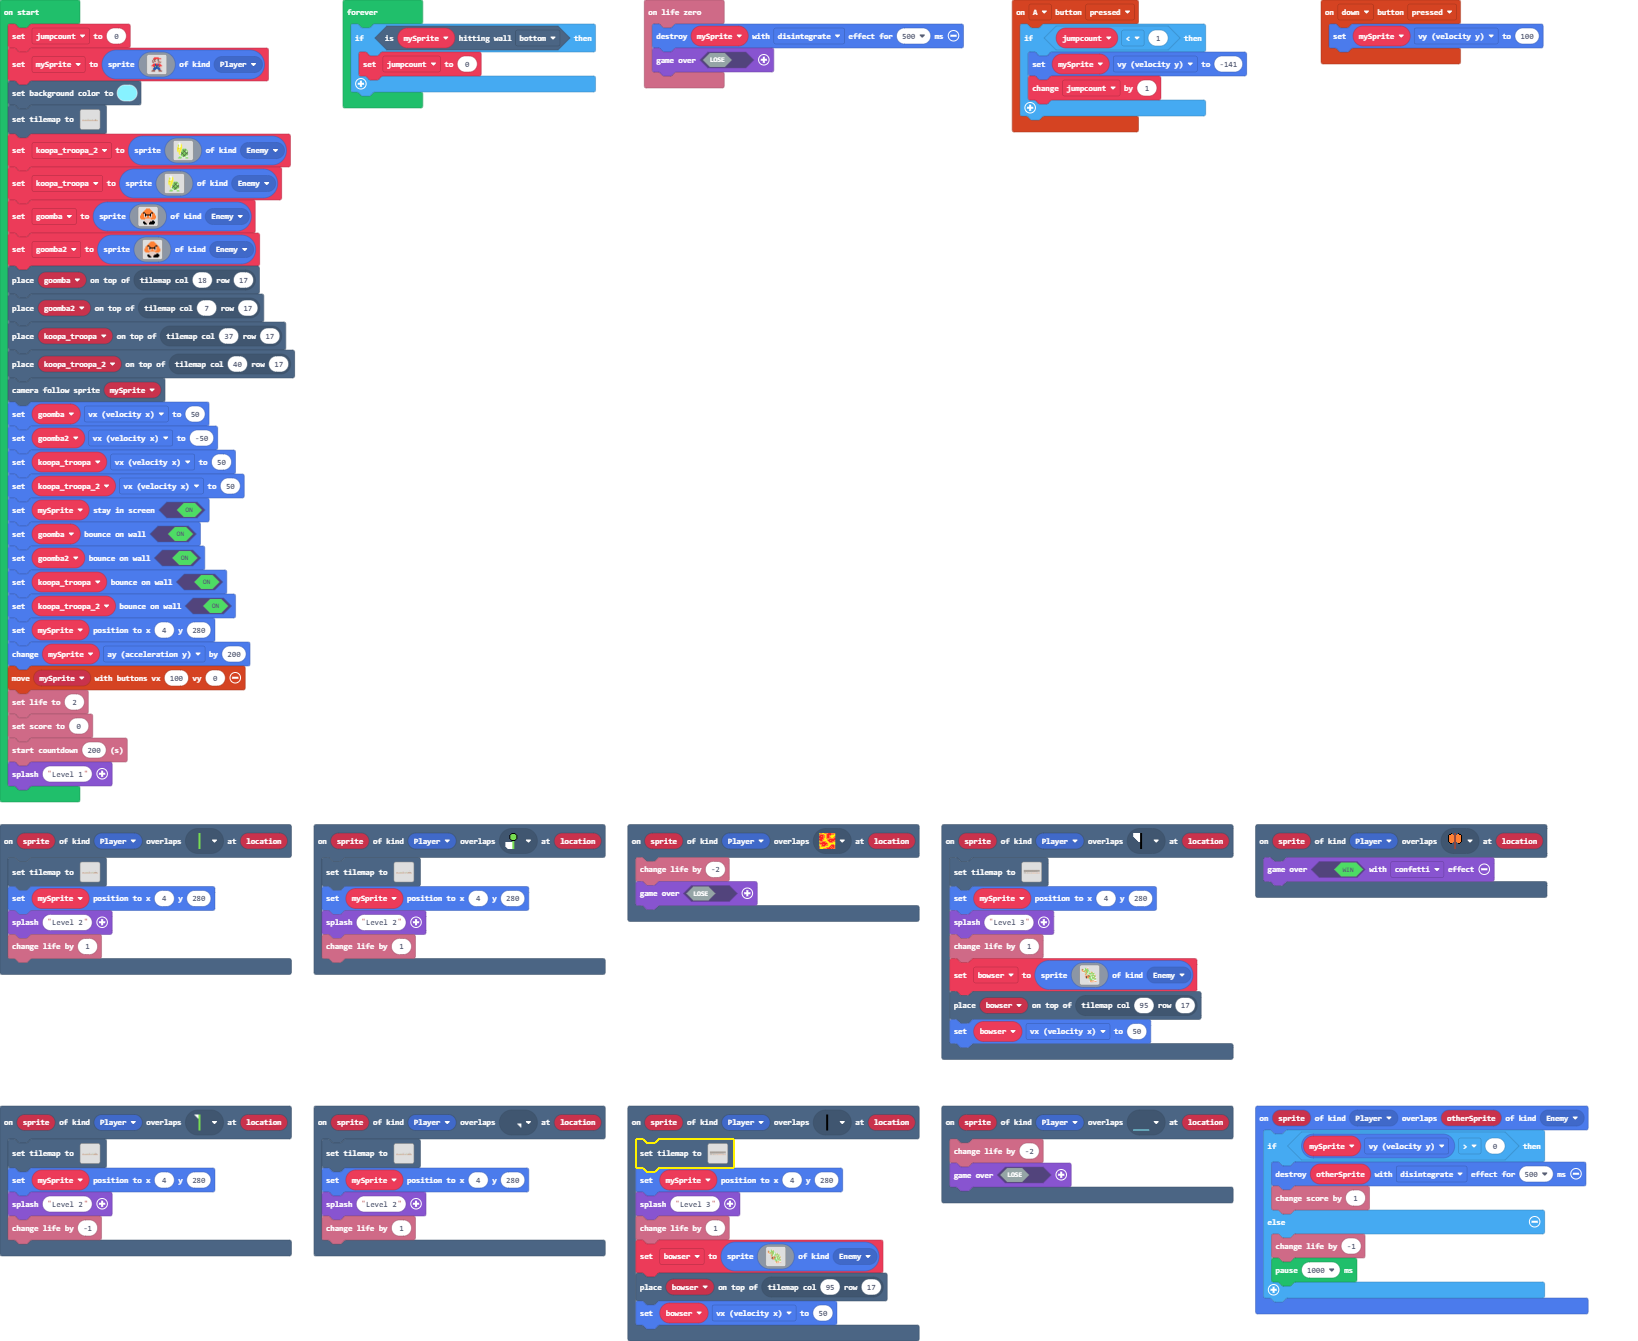
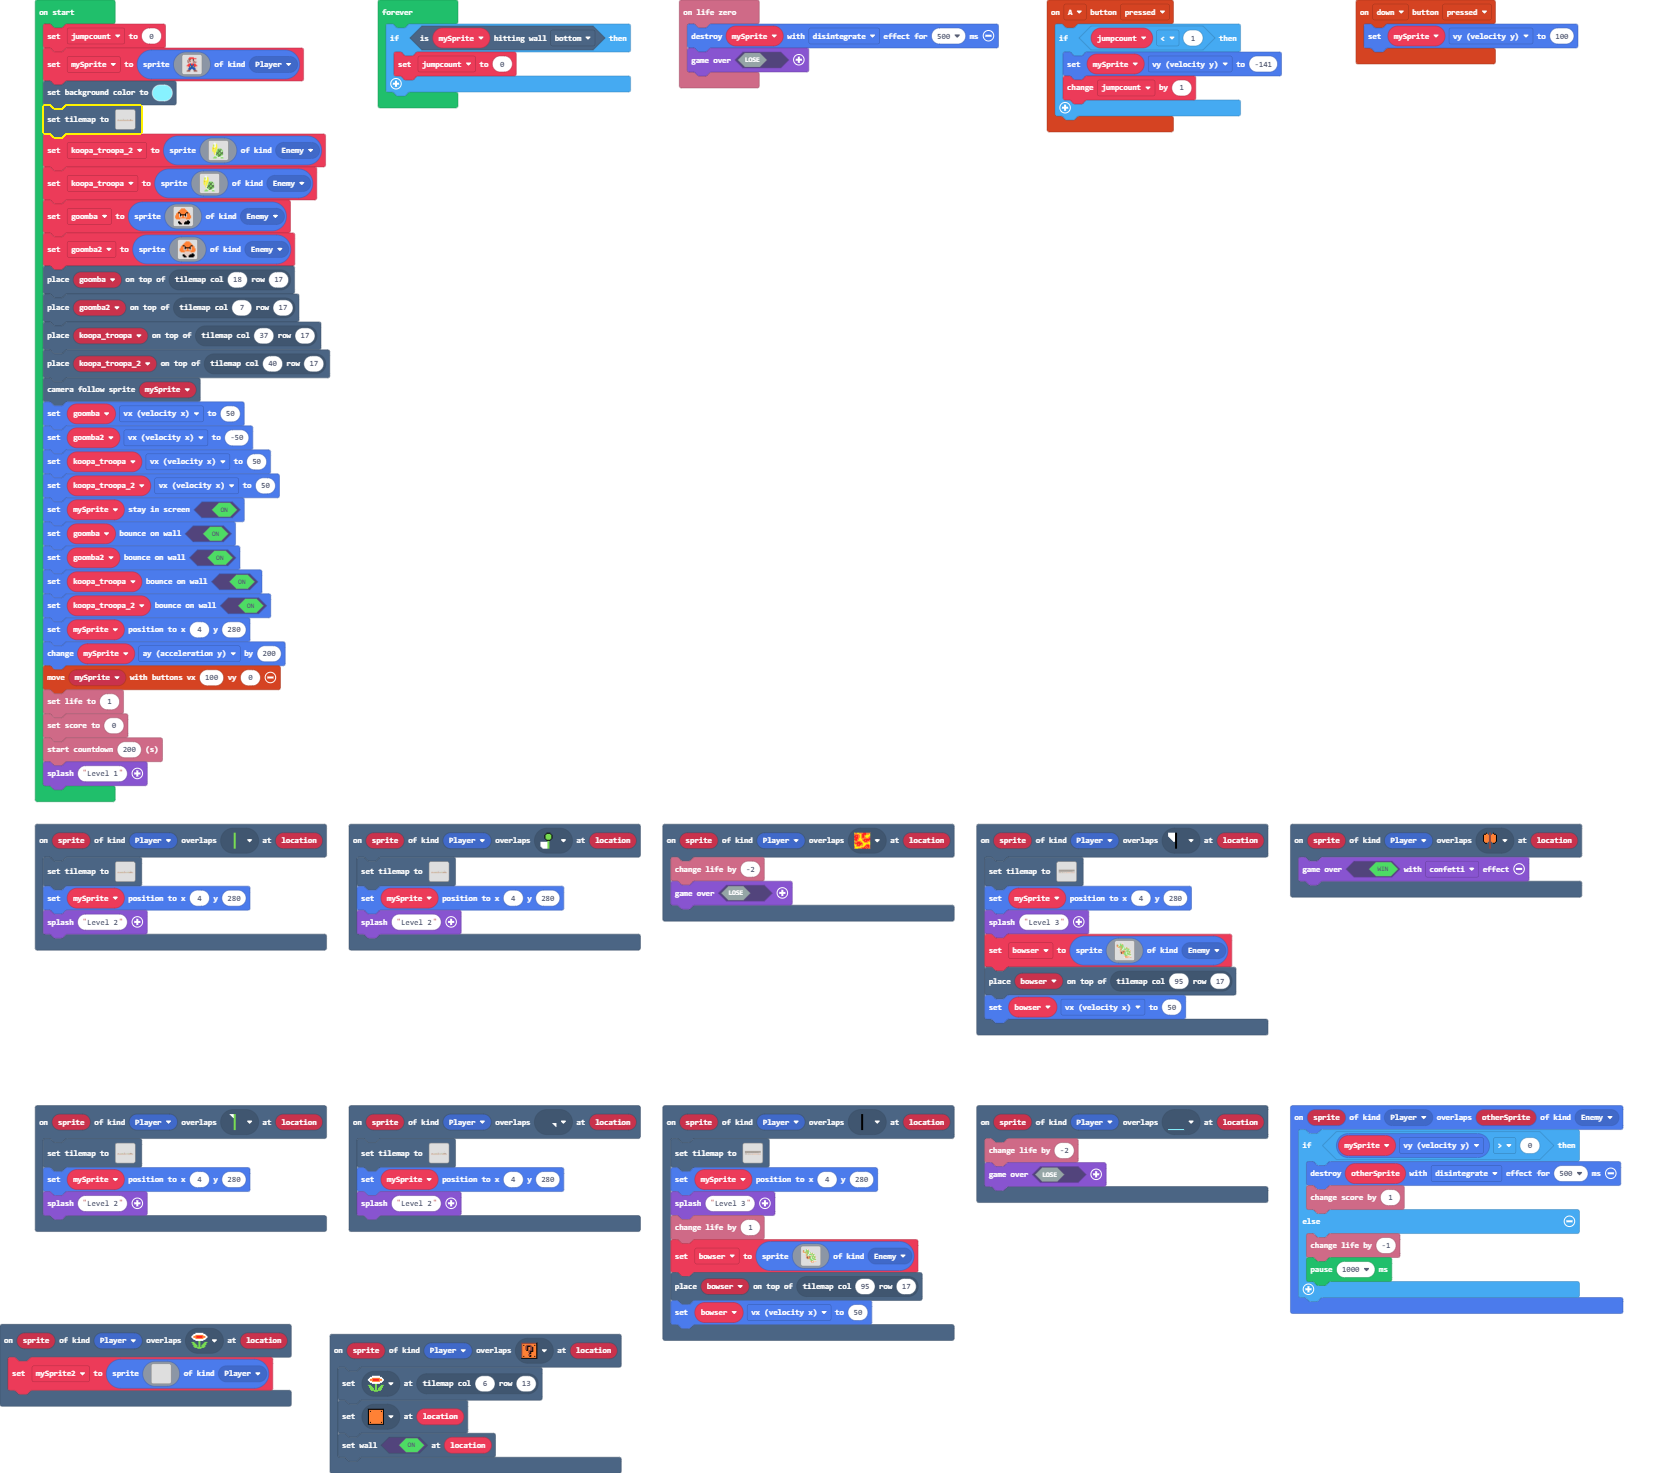
Update main.blocks, main.ts, tilemap.g.jres, tilemap.g.ts

diff --git a/tilemap.g.ts b/tilemap.g.ts
@@ -46,6 +46,10 @@ namespace myTiles {
     export const tile20 = image.ofBuffer(hex``);
     //% fixedInstance jres blockIdentity=images._tile
     export const tile22 = image.ofBuffer(hex``);
+    //% fixedInstance jres blockIdentity=images._tile
+    export const tile23 = image.ofBuffer(hex``);
+    //% fixedInstance jres blockIdentity=images._tile
+    export const tile24 = image.ofBuffer(hex``);
 
     helpers._registerFactory("tilemap", function(name: string) {
         switch(helpers.stringTrim(name)) {
@@ -219,29 +223,6 @@ namespace myTiles {
 . . . . . . . . . . . . . . . . 
 . . . . . . . . . . . . . . . . 
 `, [myTiles.transparency16], TileScale.Sixteen);
-            case "level3":
[1 lines of base64/hex data omitted]
-....................................................................................................
-....................................................................................................
-....................................................................................................
-....................................................................................................
-...........................................................................................222222222
-..............................................................................22222222222222........
-222..........................................................22222222222222222......................
-222222222222222222222222222222222222222.....222222222222222222......................................
-222222222222222222222222222222222222222222222.......................................................
-222222222222222222222222222222222222222222222.......................................................
-....................................222.............................................................
-....................................................................................................
-....................................................................................22..............
-...................................................................................222..............
-.2..22222................2.........22222.......................22222..............2222..............
-.....................2...2....................2....2....2........................22222..............
-.................2...2...2....................2....2....2.......................222222..............
-.................2...2...2....................2....2....2......................2222222.....2........
-2222222222222222222222222222222222222222222222222222222222222222222222222222222222222222222222222222
-2222222222222222222222222222222222222222222222222222222222222222222222222222222222222222222222222222
-`, [myTiles.transparency16,myTiles.tile2,myTiles.tile3,myTiles.tile4,myTiles.tile5,myTiles.tile6,myTiles.tile12,myTiles.tile7,myTiles.tile9,myTiles.tile10,myTiles.tile11], TileScale.Sixteen);
             case "level12":
             case "level12":return tiles.createTilemap(hex`1000100000000000000000000000000000000000000000000000000000000000000000000000000000000000000000000000000000000000000000000000000000000000000000000000000000000000000000000000000000000000000000000000000000000000000000000000000000000000000000000000000000000000000000000000000000000000000000000000000000000000000000000000000000000000000000000000000000000000000000000000000000000000000000000000000000000000000000000000000000000000000000000000000000000000000000000000000000000000000000000000000000000000000000000000000000000000`, img`
 . . . . . . . . . . . . . . . . 
@@ -383,6 +364,48 @@ namespace myTiles {
 22222222222222......222222222......222.........2222.............................22222222222222222222
 22222222222222......222222222......222.........2222.............................222222............22
 `, [myTiles.transparency16,myTiles.tile17,myTiles.tile19,myTiles.tile2,myTiles.tile10,myTiles.tile20,myTiles.tile21,myTiles.tile22,myTiles.tile11], TileScale.Sixteen);
+            case "level18":
+            case "level18":return tiles.createTilemap(hex`1000100000000000000000000000000000000000000000000000000000000000000000000000000000000000000000000000000000000000000000000000000000000000000000000000000000000000000000000000000000000000000000000000000000000000000000000000000000000000000000000000000000000000000000000000000000000000000000000000000000000000000000000000000000000000000000000000000000000000000000000000000000000000000000000000000000000000000000000000000000000000000000000000000000000000000000000000000000000000000000000000000000000000000000000000000000000000`, img`
+. . . . . . . . . . . . . . . . 
+. . . . . . . . . . . . . . . . 
+. . . . . . . . . . . . . . . . 
+. . . . . . . . . . . . . . . . 
+. . . . . . . . . . . . . . . . 
+. . . . . . . . . . . . . . . . 
+. . . . . . . . . . . . . . . . 
+. . . . . . . . . . . . . . . . 
+. . . . . . . . . . . . . . . . 
+. . . . . . . . . . . . . . . . 
+. . . . . . . . . . . . . . . . 
+. . . . . . . . . . . . . . . . 
+. . . . . . . . . . . . . . . . 
+. . . . . . . . . . . . . . . . 
+. . . . . . . . . . . . . . . . 
+. . . . . . . . . . . . . . . . 
+`, [myTiles.transparency16], TileScale.Sixteen);
+            case "level3":
[1 lines of base64/hex data omitted]
+....................................................................................................
+....................................................................................................
+....................................................................................................
+....................................................................................................
+...........................................................................................222222222
+..............................................................................22222222222222........
+222..........................................................22222222222222222......................
+222222222222222222222222222222222222222.....222222222222222222......................................
+222222222222222222222222222222222222222222222.......................................................
+222222222222222222222222222222222222222222222.......................................................
+....................................222.............................................................
+....................................................................................................
+....................................................................................22..............
+...................................................................................222..............
+.2...2.22................2.........22222.......................22222..............2222..............
+.....................2...2....................2....2....2........................22222..............
+.................2...2...2....................2....2....2.......................222222..............
+.................2...2...2....................2....2....2......................2222222.....2........
+2222222222222222222222222222222222222222222222222222222222222222222222222222222222222222222222222222
+2222222222222222222222222222222222222222222222222222222222222222222222222222222222222222222222222222
+`, [myTiles.transparency16,myTiles.tile2,myTiles.tile3,myTiles.tile4,myTiles.tile5,myTiles.tile6,myTiles.tile12,myTiles.tile7,myTiles.tile9,myTiles.tile10,myTiles.tile11,myTiles.tile23,myTiles.tile22], TileScale.Sixteen);
         }
         return null;
     })
@@ -434,6 +457,10 @@ namespace myTiles {
             case "tile20":return tile20;
             case "myTile20":
             case "tile22":return tile22;
+            case "myTile21":
+            case "tile23":return tile23;
+            case "myTile22":
+            case "tile24":return tile24;
         }
         return null;
     })

diff --git a/main.ts b/main.ts
@@ -1,6 +1,26 @@
 namespace SpriteKind {
     export const enmey2 = SpriteKind.create()
 }
+scene.onOverlapTile(SpriteKind.Player, assets.tile`myTile22`, function (sprite, location) {
+    mySprite2 = sprites.create(img`
+        . . . . . . . . . . . . . . . . 
+        . . . . . . . . . . . . . . . . 
+        . . . . . . . . . . . . . . . . 
+        . . . . . . . . . . . . . . . . 
+        . . . . . . . . . . . . . . . . 
+        . . . . . . . . . . . . . . . . 
+        . . . . . . . . . . . . . . . . 
+        . . . . . . . . . . . . . . . . 
+        . . . . . . . . . . . . . . . . 
+        . . . . . . . . . . . . . . . . 
+        . . . . . . . . . . . . . . . . 
+        . . . . . . . . . . . . . . . . 
+        . . . . . . . . . . . . . . . . 
+        . . . . . . . . . . . . . . . . 
+        . . . . . . . . . . . . . . . . 
+        . . . . . . . . . . . . . . . . 
+        `, SpriteKind.Player)
+})
 controller.A.onEvent(ControllerButtonEvent.Pressed, function () {
     if (jumpcount < 1) {
         mySprite.vy = -141
@@ -11,23 +31,25 @@ scene.onOverlapTile(SpriteKind.Player, assets.tile`myTile7`, function (sprite, l
     tiles.setTilemap(tilemap`level5`)
     mySprite.setPosition(4, 280)
     game.splash("Level 2")
-    info.changeLifeBy(1)
 })
 scene.onOverlapTile(SpriteKind.Player, assets.tile`myTile4`, function (sprite, location) {
     tiles.setTilemap(tilemap`level5`)
     mySprite.setPosition(4, 280)
     game.splash("Level 2")
-    info.changeLifeBy(1)
 })
 scene.onOverlapTile(SpriteKind.Player, assets.tile`myTile18`, function (sprite, location) {
     info.changeLifeBy(-2)
     game.over(false)
 })
+scene.onOverlapTile(SpriteKind.Player, assets.tile`myTile21`, function (sprite, location) {
+    tiles.setTileAt(tiles.getTileLocation(6, 13), assets.tile`myTile22`)
+    tiles.setTileAt(location, assets.tile`myTile`)
+    tiles.setWallAt(location, true)
+})
 scene.onOverlapTile(SpriteKind.Player, assets.tile`myTile16`, function (sprite, location) {
     tiles.setTilemap(tilemap`level15`)
     mySprite.setPosition(4, 280)
     game.splash("Level 3")
-    info.changeLifeBy(1)
     bowser = sprites.create(img`
         ...................................
         ............111....................
@@ -76,7 +98,6 @@ scene.onOverlapTile(SpriteKind.Player, assets.tile`myTile5`, function (sprite, l
     tiles.setTilemap(tilemap`level5`)
     mySprite.setPosition(4, 280)
     game.splash("Level 2")
-    info.changeLifeBy(-1)
 })
 info.onLifeZero(function () {
     mySprite.destroy(effects.disintegrate, 500)
@@ -86,7 +107,6 @@ scene.onOverlapTile(SpriteKind.Player, assets.tile`myTile10`, function (sprite, 
     tiles.setTilemap(tilemap`level5`)
     mySprite.setPosition(4, 280)
     game.splash("Level 2")
-    info.changeLifeBy(1)
 })
 scene.onOverlapTile(SpriteKind.Player, assets.tile`myTile14`, function (sprite, location) {
     tiles.setTilemap(tilemap`level15`)
@@ -147,6 +167,7 @@ sprites.onOverlap(SpriteKind.Player, SpriteKind.Enemy, function (sprite, otherSp
     }
 })
 let bowser: Sprite = null
+let mySprite2: Sprite = null
 let mySprite: Sprite = null
 let jumpcount = 0
 jumpcount = 0
@@ -275,7 +296,7 @@ koopa_troopa_2.setBounceOnWall(true)
 mySprite.setPosition(4, 280)
 mySprite.ay += 200
 controller.moveSprite(mySprite, 100, 0)
-info.setLife(2)
+info.setLife(1)
 info.setScore(0)
 info.startCountdown(200)
 game.splash("Level 1")
